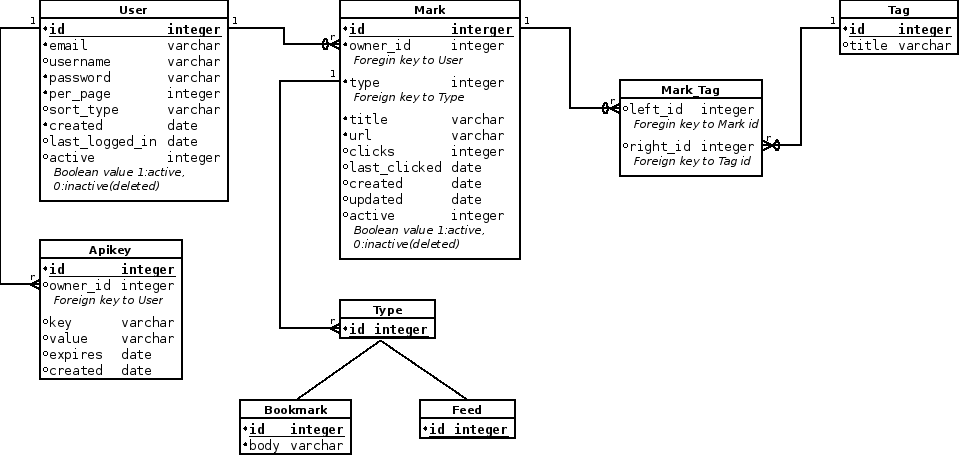
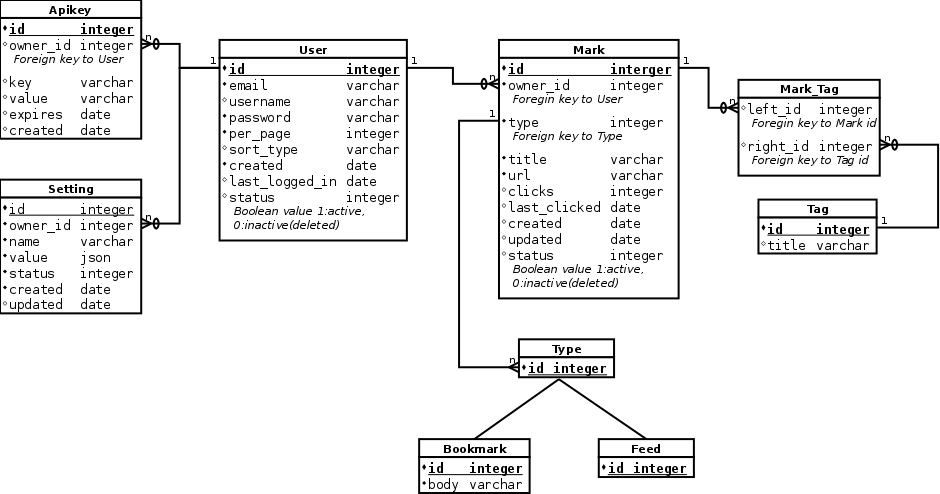
introduced JSON settings as a storage container for rich clients in the future

diff --git a/api/models/user.py b/api/models/user.py
@@ -9,6 +9,7 @@ from ..core.setup import db, config
 from .tag import Tag
 from .mark import Mark
 from .apikey import ApiKey
+from .setting import Setting
 import bcrypt
 
 
@@ -27,10 +28,9 @@ class User(db.Model):
 
     marks = db.relationship('Mark', backref='owner', lazy='dynamic')
     apikeys = db.relationship('ApiKey', backref='owner', lazy='joined')
+    settings = db.relationship('Setting', backref='owner', lazy='joined')
 
-    master_key = ""
-
-    status_map = {'active': 1, 'deactive': 2}
+    smap = {'active': 1, 'inactive': 2}
 
     def __init__(self, email=False, password=False):
         if email:
@@ -44,7 +44,7 @@ class User(db.Model):
     @classmethod
     def by_email(self, email):
         return self.query.filter(and_(User.email == email,
-                                      User.status == self.status_map['active'])).first()
+                                      User.status == self.smap['active'])).first()
 
     @staticmethod
     def verify_api_key(token):
@@ -70,7 +70,7 @@ class User(db.Model):
         return True
 
     def is_active(self):
-        return self.status == self.status_map['active']
+        return self.status == self.smap['active']
 
     def is_anonymous(self):
         return True
@@ -95,11 +95,11 @@ class User(db.Model):
 
     def my_marks(self):
         return Mark.query.filter(and_(Mark.owner_id == self.id,
-                                      Mark.status == self.status_map['active']))
+                                      Mark.status == self.smap['active']))
 
     def get_mark_by_id(self, id):
         mark = self.my_marks().filter(and_(Mark.id == id,
-                                           Mark.status == self.status_map['active'])).first()
+                                           Mark.status == self.smap['active'])).first()
         if mark:
             mark.increment_clicks()
             return mark
@@ -150,6 +150,24 @@ class User(db.Model):
 
     def get_token_by_key(self, key):
         return self.my_apikeys().filter(ApiKey.key == key).first()
+
+    """
+    Settings
+    """
+    def create_setting(self, name, json):
+        setting = Setting(self.id, name, json)
+        db.session.add(setting)
+        db.session.commit()
+        return setting
+
+    def my_settings(self):
+        return Setting.query.filter(Setting.owner_id == self.id)
+
+    def settings(self, page):
+        return self.my_settings().paginate(page, self.per_page, False)
+
+    def get_setting_by_name(self, name):
+        return self.my_settings().filter(Setting.name == name).first()
 
     """
     Tags

diff --git a/api/views/setting.py b/api/views/setting.py
@@ -1,0 +1,64 @@
+# api/views/setting.py
+
+from flask import g
+from flask.ext.restful import fields, marshal_with, reqparse, abort
+from ..core.setup import Resource, auth
+import json
+
+
+setting_fields = {
+    'name': fields.String,
+    'json': fields.String,
+    'created': fields.DateTime,
+    'updated': fields.DateTime
+}
+
+
+def is_json(value):
+    try:
+        json.dumps(value)
+        return value
+    except SyntaxError:
+        raise "Invalid JSON format"
+
+
+class Setting(Resource):
+    @auth.login_required
+    @marshal_with(setting_fields)
+    def get(self, name):
+        setting = g.user.get_setting_by_name(name)
+        if setting:
+            return setting
+        return abort(410, message="Setting {} doesn't exists".format(name))
+
+    @auth.login_required
+    @marshal_with(setting_fields)
+    def put(self, name):
+        put_parser = reqparse.RequestParser()
+        put_parser.add_argument('json', type=is_json, required=True,
+                                help='Missing JSON setting blob')
+        args = put_parser.parse_args()
+        setting = g.user.get_setting_by_name(name)
+        if setting:
+            return setting.update(args)
+        return abort(410, message="Setting {} doesn't exist".format(name))
+
+    @auth.login_required
+    @marshal_with(setting_fields)
+    def post(self):
+        post_parser = reqparse.RequestParser()
+        post_parser.add_argument('name', type=str, required=True,
+                                 help='Missing name')
+        post_parser.add_argument('json', type=is_json, required=True,
+                                 help='Missing JSON setting blob')
+        args = post_parser.parse_args()
+        return g.user.create_setting(args.name, args.json)
+
+    @auth.login_required
+    @marshal_with(setting_fields)
+    def delete(self, name):
+        setting = g.user.get_setting_by_name(name)
+        if setting:
+            setting.delete()
+            return setting
+        return abort(410, message="Setting {} doesn't exist".format(name))

diff --git a/api/__init__.py b/api/__init__.py
@@ -12,21 +12,34 @@ from flask import Flask
 app = Flask(__name__, instance_relative_config=True)
 
 from . import core
-from . import models
 from . import views
 
 # routes
 if core.setup.config['CAN_REGISTER']:
     core.setup.api.add_resource(views.Register, '/register')
 
-core.setup.api.add_resource(views.Version, '/version')
+core.setup.api.add_resource(views.Version,
+                            '/version')
 
-core.setup.api.add_resource(views.Profile, '/profile')
+core.setup.api.add_resource(views.Profile,
+                            '/profile')
 
-core.setup.api.add_resource(views.Token, '/token', '/token/<string:key>')
+core.setup.api.add_resource(views.Token,
+                            '/token',
+                            '/token/<string:key>')
 
-core.setup.api.add_resource(views.Mark, '/mark', '/mark/<string:mark_id>')
+core.setup.api.add_resource(views.Setting,
+                            '/setting',
+                            '/setting/<string:name>')
 
-core.setup.api.add_resource(views.Marks, '/marks', '/marks/<int:page>')
+core.setup.api.add_resource(views.Mark,
+                            '/mark',
+                            '/mark/<string:mark_id>')
 
-core.setup.api.add_resource(views.Tags, '/tags', '/tags/<int:page>')
+core.setup.api.add_resource(views.Marks,
+                            '/marks',
+                            '/marks/<int:page>')
+
+core.setup.api.add_resource(views.Tags,
+                            '/tags',
+                            '/tags/<int:page>')

diff --git a/api/models/setting.py b/api/models/setting.py
@@ -1,0 +1,41 @@
+# flaskmarks/models/setting.py
+
+from ..core.setup import db
+from datetime import datetime as dt
+
+
+class Setting(db.Model):
+    __tablename__ = 'Setting'
+
+    id = db.Column(db.Integer, primary_key=True)
+    owner_id = db.Column(db.Integer, db.ForeignKey('User.id'))
+    name = db.Column(db.Unicode(256), nullable=False)
+    json = db.Column(db.Unicode(4096), nullable=False)
+    status = db.Column(db.Integer, default=1)
+    created = db.Column(db.DateTime)
+    updated = db.Column(db.DateTime)
+
+    status_map = {'active': 1, 'inactive': 2}
+
+    def __init__(self, owner_id, name, json):
+        self.owner_id = owner_id
+        self.created = dt.utcnow()
+        self.name = name
+        self.json = json
+
+    def update(self, args):
+        for key, value in args.iteritems():
+            setattr(self, key, value)
+        self.updated = dt.utcnow()
+        db.session.add(self)
+        db.session.commit()
+        return self
+
+    def delete(self):
+        self.status = self.status_map['inactive']
+        self.updated = dt.utcnow()
+        db.session.add(self)
+        db.session.commit()
+
+    def __repr__(self):
+        return '<Setting %d>' % (self.id)

diff --git a/client/test.py b/client/test.py
@@ -44,6 +44,31 @@ profile_username_request = requests.put(base_url + 'profile',
                                         params={'username': str(uuid.uuid4())})
 print(profile_username_request.text)
 
+# create settings object
+print('=> Create new setting')
+new_setting = requests.post(base_url + 'setting',
+                            auth=(token, 'unused'),
+                            params={'name': 'setting1', 'json': '{1,2,3,4}'})
+print(new_setting.text)
+setting_name = new_setting.json().get('name')
+
+# get setting
+print('=> Fetching new setting')
+setting = requests.get(base_url + 'setting/' + setting_name,
+                       auth=(token, 'unused'))
+print(setting.text)
+
+# update setting
+print('=> Updating new setting')
+updated_setting = requests.put(base_url + 'setting/' + setting_name,
+                               auth=(token, 'unused'),
+                               params={'json': '{1,2,3,4,5,6,7}'})
+print(updated_setting.text)
+
+print('=> Delete setting')
+print(requests.delete(base_url + 'setting/' + setting_name,
+                      auth=(token, 'unused')).text)
+
 # create mark
 print('=> Create new mark')
 mark_payload = {'type': 'bookmark',

diff --git a/api/models/mark.py b/api/models/mark.py
@@ -32,7 +32,7 @@ class Mark(db.Model):
                         lazy='joined',
                         backref='Mark')
 
-    status_map = {'active': 1, 'deactive': 2}
+    status_map = {'active': 1, 'inactive': 2}
 
     valid_types = ['bookmark', 'feed']
 
@@ -43,7 +43,12 @@ class Mark(db.Model):
         else:
             self.created = dt.utcnow()
 
-    def update_mark(self, args):
+    def delete(self):
+        self.status = self.status_map['inactive']
+        db.session.add(self)
+        db.session.commit()
+
+    def update(self, args):
         for key, value in args.iteritems():
             if value and key == 'tags':
                 self.update_tags(value)
@@ -68,11 +73,6 @@ class Mark(db.Model):
     def increment_clicks(self):
         self.clicks += 1
         self.last_clicked = dt.utcnow()
-        db.session.add(self)
-        db.session.commit()
-
-    def delete(self):
-        self.status = self.status_map['deactive']
         db.session.add(self)
         db.session.commit()
 

diff --git a/api/views/mark.py b/api/views/mark.py
@@ -49,7 +49,7 @@ class Mark(Resource):
         args = put_parser.parse_args()
         mark = g.user.get_mark_by_id(mark_id)
         if mark:
-            return mark.update_mark(args)
+            return mark.update(args)
         return abort(410, message="Mark {} doesn't exist".format(mark_id))
 
     @auth.login_required

diff --git a/api/views/__init__.py b/api/views/__init__.py
@@ -6,3 +6,4 @@ from .profile import Profile
 from .mark import Mark, Marks
 from .token import Token
 from .tag import Tags
+from .setting import Setting

diff --git a/api/models/__init__.py b/api/models/__init__.py
@@ -4,3 +4,4 @@ from .user import User
 from .mark import Mark
 from .tag import Tag
 from .apikey import ApiKey
+from .setting import Setting
